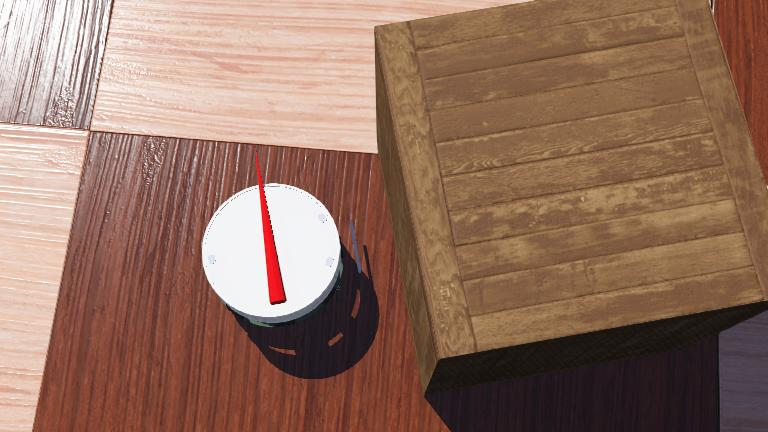
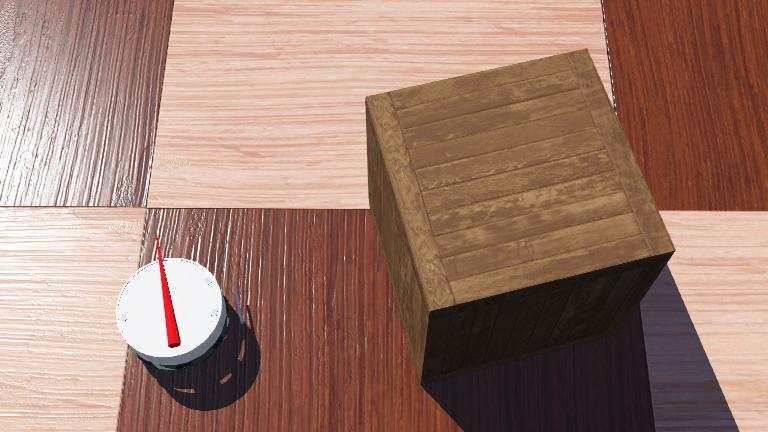
sensoren4 naald naar het noorden laten wijzen

diff --git a/sensoren/controllers/Elisa_bumper/Elisa_bumper.py b/sensoren/controllers/Elisa_bumper/Elisa_bumper.py
@@ -3,6 +3,7 @@
 # You may need to import some classes of the controller module. Ex:
 #  from controller import Robot, Motor, DistanceSensor
 from controller import Robot
+from math import atan2
 
 #=============================================================
 #Global vars
@@ -33,6 +34,14 @@ def defRobotControl(robot):
     #Enable bumper sensor
     devBumper = robot.getDevice('touch sensor')
     devBumper.enable(varTimeStep)
+
+    #Enable compass
+    devCompass = robot.getDevice('compass')
+    devCompass.enable(varTimeStep)
+
+    #Enable arrow
+    devNeedle = robot.getDevice('arrow')
+    
     
     #Reset velocity of both wheels
     varSpeedLe = 0.0
@@ -49,6 +58,12 @@ def defRobotControl(robot):
             varSpeedLe = -varMaxSpeed*0.25
             print("Turning left")
             print(devBumper.getValue())
+
+        # Read the compass
+        varNorth = devCompass.getValues()
+        # Read the arrow
+        varAngle = atan2(varNorth[1], varNorth[0])
+        devNeedle.setPosition(varAngle)
     
         # Control the motors
         devMotLe.setVelocity(varSpeedLe)
